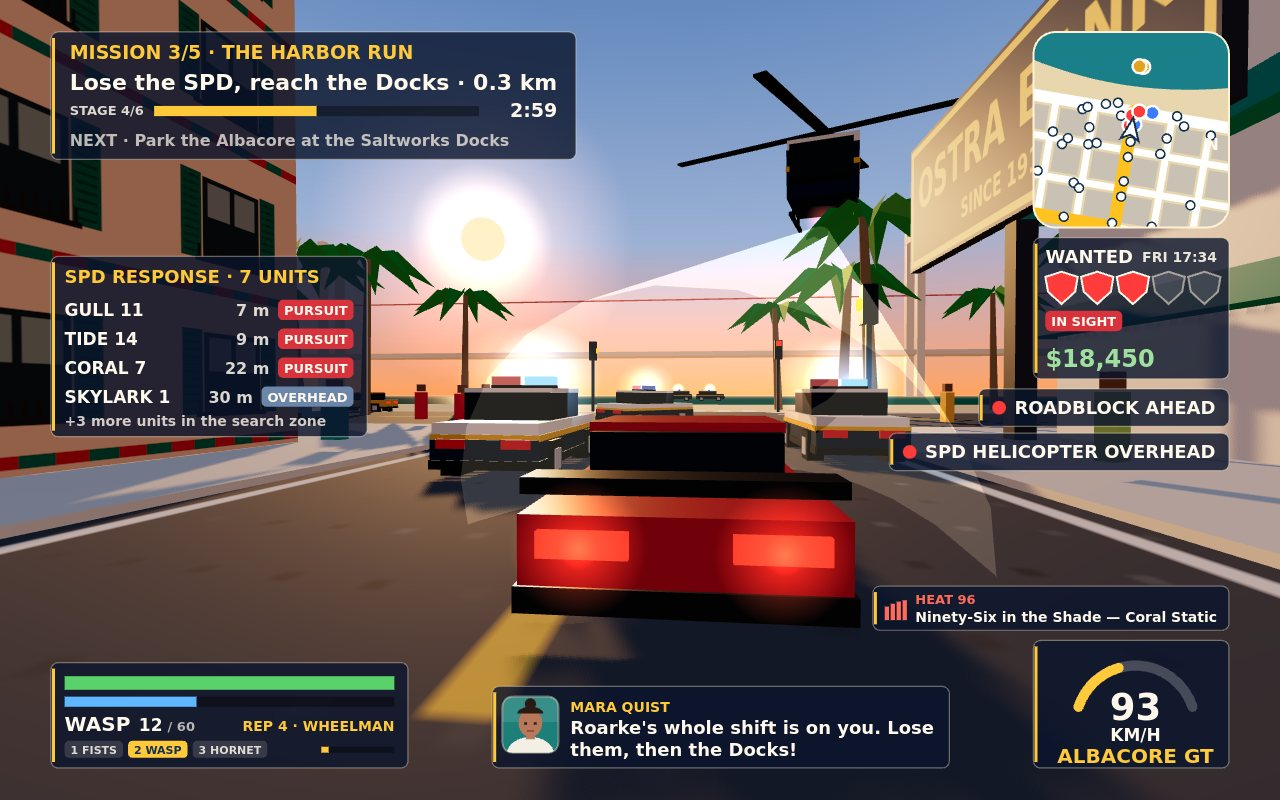
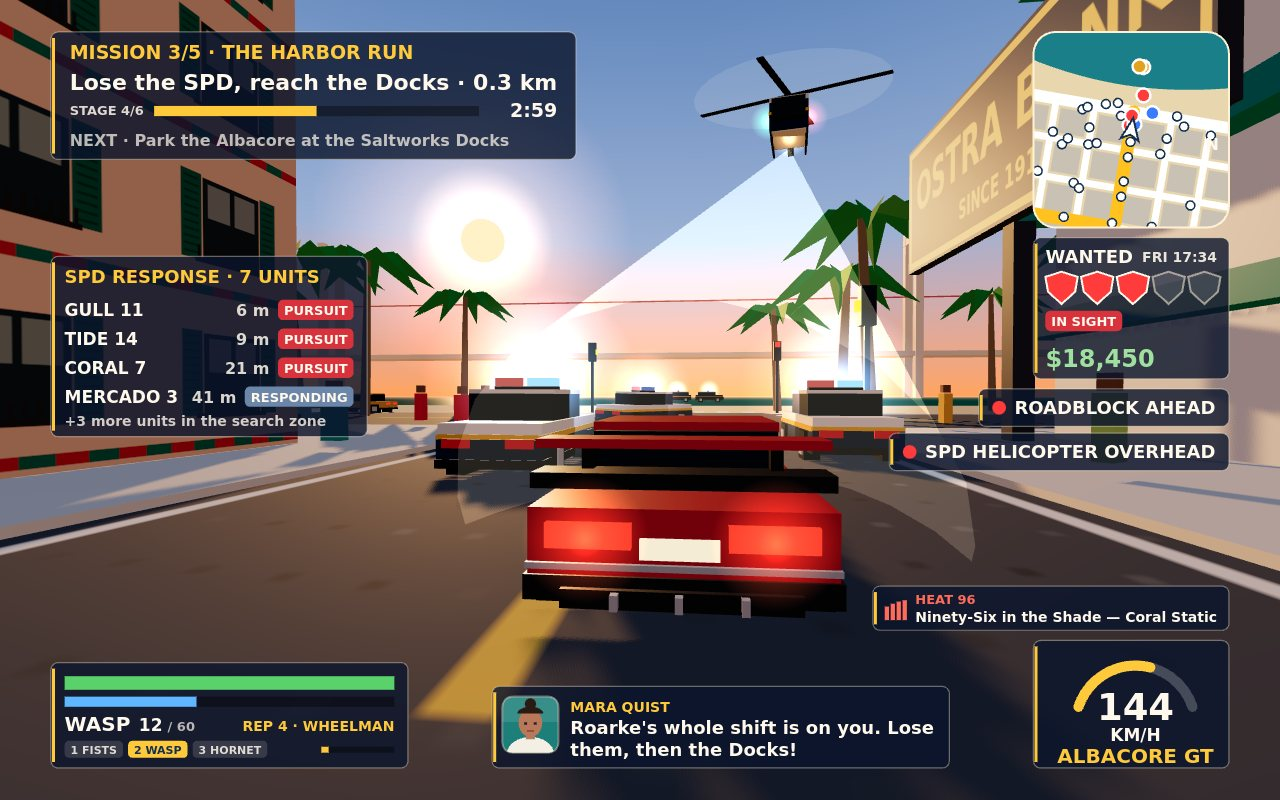
M6 cover detail: SKYLARK 1 half size, higher and right of the sun (30 m up) with a white belly, warm belly lamp, red/green nav lights, tail strobe and a faint rotor disc, searchlight still on the car; police bar halos 5.6 with a hotter core; Albacore rear gets a raised spoiler, bumper line, finned d

diff --git a/game/src/police/police-ai.js b/game/src/police/police-ai.js
@@ -15,7 +15,7 @@ export function dispatchPoliceUnits(game, makeCar) {
     car.ai = 'spd';
     return { ...r, index, car, model, active: false, state: 'IDLE', path: [], repathIn: 0, stuckFor: 0, reverseFor: 0, awayFor: 0, dist: 1e9, bumpCooldown: 0 };
   });
-  const glow = buildBarGlow(units.length + 1);
+  const glow = buildBarGlow(units.length + 2);
   game.scene.add(glow);
   const heli = buildHelicopter();
   game.scene.add(heli.group, heli.cone, heli.spot);
@@ -298,12 +298,20 @@ export function dispatchPoliceUnits(game, makeCar) {
         col.setXYZ(j, k === 0 ? (on ? 1 : 0.25) : 0.1, k === 0 ? 0.12 : (on ? 0.4 : 0.1), k === 0 ? 0.1 : (on ? 1 : 0.25));
       }
     });
-    // The helicopter's belly beacons use the last two sprites.
+    // SKYLARK 1 uses the last four sprites: the warm searchlight lamp under the belly, a red nav
+    // light on its left side, a green one on its right, and a white strobe on the tail fin.
     const j = units.length * 2, ph = Math.floor(game.time * 3) % 2;
-    pos.setXYZ(j, air.active ? air.car.x : 0, air.active ? air.y - 1.1 * HELI_SCALE : -50, air.car.z);
-    pos.setXYZ(j + 1, air.active ? air.car.x : 0, air.active ? air.y + 0.9 * HELI_SCALE : -50, air.car.z);
-    col.setXYZ(j, ph ? 1 : 0.2, 0.1, ph ? 0.1 : 1);
-    col.setXYZ(j + 1, 0.9, 0.85, 0.7);
+    heli.group.updateMatrixWorld();
+    const at = (k, x, y, z) => {
+      if (!air.active) { pos.setXYZ(j + k, 0, -50, 0); return; }
+      const w = heli.group.localToWorld(new THREE.Vector3(x, y, z));
+      pos.setXYZ(j + k, w.x, w.y, w.z);
+    };
+    at(0, 0, -0.8, -0.6); at(1, -1.0, 0.2, -0.4); at(2, 1.0, 0.2, -0.4); at(3, 0, 1.5, 6.1);
+    col.setXYZ(j, 1, 0.9, 0.62);
+    col.setXYZ(j + 1, 1, 0.08, 0.06);
+    col.setXYZ(j + 2, 0.1, 1, 0.25);
+    col.setXYZ(j + 3, ph ? 0.9 : 0.15, ph ? 0.9 : 0.15, ph ? 0.9 : 0.15);
     pos.needsUpdate = true; col.needsUpdate = true;
   }
 
@@ -342,6 +350,7 @@ const DOWN = new THREE.Vector3(0, -1, 0);
 function buildHelicopter() {
   const body = boxesToGeometry([
     { w: 1.9, h: 1.3, d: 3.4, x: 0, y: 0, z: 0, c: NAVY },
+    { w: 1.7, h: 0.06, d: 3.0, x: 0, y: -0.67, z: 0, c: WHITE },
     { w: 1.92, h: 0.5, d: 3.0, x: 0, y: 0.75, z: 0.1, c: WHITE },
     { w: 1.94, h: 0.14, d: 3.42, x: 0, y: 0.15, z: 0, c: GOLD },
     { w: 1.6, h: 0.9, d: 0.9, x: 0, y: 0.15, z: -1.95, c: GLASS },
@@ -359,6 +368,10 @@ function buildHelicopter() {
     { w: 10, h: 0.06, d: 0.32, x: 0, y: 0, z: 0, c: TRIM }, { w: 0.32, h: 0.06, d: 10, x: 0, y: 0, z: 0, c: TRIM },
   ]), POLICE_BODY);
   rotor.position.y = 1.5;
+  // The blur of the spinning blades: a faint pale disc (no depth write), one draw call.
+  const disc = new THREE.Mesh(new THREE.CircleGeometry(5, 32).rotateX(-Math.PI / 2), new THREE.MeshBasicMaterial({ color: 0xdfe6f2, transparent: true, opacity: 0.16, depthWrite: false, side: THREE.DoubleSide }));
+  disc.position.y = 1.52;
+  group.add(disc);
   const tail = new THREE.Mesh(boxesToGeometry([{ w: 0.05, h: 1.8, d: 0.2, x: 0, y: 0, z: 0, c: TRIM }]), POLICE_BODY);
   tail.position.set(0.15, 1.0, 6.1);
   group.add(rotor, tail);
@@ -468,12 +481,12 @@ function buildBarGlow(count) {
   canvas.width = canvas.height = 64;
   const ctx = canvas.getContext('2d');
   const grad = ctx.createRadialGradient(32, 32, 0, 32, 32, 32);
-  grad.addColorStop(0, 'rgba(255,255,255,1)'); grad.addColorStop(0.25, 'rgba(255,255,255,0.55)'); grad.addColorStop(1, 'rgba(255,255,255,0)');
+  grad.addColorStop(0, 'rgba(255,255,255,1)'); grad.addColorStop(0.18, 'rgba(255,255,255,0.8)'); grad.addColorStop(0.45, 'rgba(255,255,255,0.3)'); grad.addColorStop(1, 'rgba(255,255,255,0)');
   ctx.fillStyle = grad; ctx.fillRect(0, 0, 64, 64);
   const geo = new THREE.BufferGeometry();
   geo.setAttribute('position', new THREE.Float32BufferAttribute(new Float32Array(count * 2 * 3).fill(-50), 3));
   geo.setAttribute('color', new THREE.Float32BufferAttribute(new Float32Array(count * 2 * 3), 3));
-  const mat = new THREE.PointsMaterial({ size: 3.4, map: new THREE.CanvasTexture(canvas), vertexColors: true, transparent: true, blending: THREE.AdditiveBlending, depthWrite: false, toneMapped: false });
+  const mat = new THREE.PointsMaterial({ size: 5.6, map: new THREE.CanvasTexture(canvas), vertexColors: true, transparent: true, blending: THREE.AdditiveBlending, depthWrite: false, toneMapped: false });
   const points = new THREE.Points(geo, mat);
   points.frustumCulled = false;
   return points;

diff --git a/game/src/dev/screenshot-scenes.js b/game/src/dev/screenshot-scenes.js
@@ -40,7 +40,7 @@ function writeShotSave(game) {
 // flanking Beacons' offsets (ahead, sideways; + is the car's right), SKYLARK 1's screen point (NDC)
 // and height, and how far right of the low sun the arm looks (rad), so the sun sits up and left of
 // centre over the sea at the end of the street.
-const FRAME = { back: 2.8, up: 1.55, flank: [[6, -3.5], [9, 3.5]], heliX: 0.2, heliY: 0.5, heliUp: 14, sunRight: 0.2 };
+const FRAME = { back: 2.8, up: 1.55, flank: [[6, -3.5], [9, 3.5]], heliX: 0.14, heliY: 0.66, heliUp: 30, sunRight: 0.2, speed: 40 };
 // Where Wren stands for the Mercado fight (south of the van, facing the Clock Arch).
 const STREET = { x: 153.2, z: 75.5 };
 
@@ -100,7 +100,8 @@ export const SCENES = {
     pol.placeHelicopter(car.x - 27.6, car.z - 13.8);
     hold(['KeyW'], 20);
     // Squared up due west at chase speed again (a nudge from the pursuit can slow or turn it).
-    car.heading = Math.PI / 2; car.vx = -26; car.vz = 0; car.speed = 26; car.sync();
+    // FRAME.speed is 40 m/s (144 km/h), well under the Albacore's 62 m/s top speed.
+    car.heading = Math.PI / 2; car.vx = -FRAME.speed; car.vz = 0; car.speed = FRAME.speed; car.sync();
     // Civilian cars inside the flank slots go back to the pool (its own despawn), so the Beacons own them.
     for (const d of game.traffic.drivers) if (d.car && Math.hypot(d.car.x - car.x, d.car.z - car.z) < 14) game.traffic.despawn(d);
     // Two Beacons re-set on the flanks (7-10 m off), so both bars read in full beside the coupe.

diff --git a/game/src/vehicles/car-models.js b/game/src/vehicles/car-models.js
@@ -53,6 +53,7 @@ const LIGHT_MATERIAL = new THREE.MeshBasicMaterial({ vertexColors: true, toneMap
 
 const GLASS = new THREE.Color(0x1d2b3a), TYRE = new THREE.Color(0x1b1c1f), RIM = new THREE.Color(0xc9ccd2);
 const HEAD = new THREE.Color(0xfff6d8), TAIL = new THREE.Color(0xff3326), TRIM = new THREE.Color(0x2a2d33);
+const PLATE = new THREE.Color(0xf4ecd4);
 
 function wheels(w, l, r) {
   const out = [];
@@ -83,6 +84,14 @@ export const CAR_SPECS = {
       { w: 1.56, h: 0.08, d: 1.4, x: 0, y: 1.27, z: 0.3, c },
       { w: 1.9, h: 0.1, d: 0.35, x: 0, y: 1.0, z: 2.1, c: TRIM },
       { w: 2.0, h: 0.16, d: 4.55, x: 0, y: 0.32, z: 0, c: TRIM },
+      // Rear detail: a small raised spoiler on two struts, a bright bumper line, a diffuser with
+      // three fins and a lit plate between them.
+      { w: 0.08, h: 0.16, d: 0.12, x: -0.62, y: 1.13, z: 2.0, c: TRIM }, { w: 0.08, h: 0.16, d: 0.12, x: 0.62, y: 1.13, z: 2.0, c: TRIM },
+      { w: 1.86, h: 0.06, d: 0.36, x: 0, y: 1.23, z: 2.04, c },
+      { w: 1.97, h: 0.04, d: 0.05, x: 0, y: 0.46, z: 2.26, c: RIM },
+      { w: 1.5, h: 0.12, d: 0.1, x: 0, y: 0.27, z: 2.27, c: TRIM },
+      { w: 0.05, h: 0.1, d: 0.14, x: -0.4, y: 0.27, z: 2.31, c: RIM }, { w: 0.05, h: 0.1, d: 0.14, x: 0, y: 0.27, z: 2.31, c: RIM }, { w: 0.05, h: 0.1, d: 0.14, x: 0.4, y: 0.27, z: 2.31, c: RIM },
+      { w: 0.5, h: 0.13, d: 0.04, x: 0, y: 0.58, z: 2.27, c: PLATE, glow: true },
       ...wheels(1.95, 1.45, 0.34),
       ...lightsFor(1.95, 4.5, 0.66),
     ],

diff --git a/NOTES.md b/NOTES.md
@@ -1,5 +1,39 @@
 # PORT SOLARA build notes
 
+## M6 cover detail: done except the road streak (run of 2026-11-19 00:31-00:54 EET)
+- (1) SKYLARK 1 (police/police-ai.js, screenshot-scenes.js `FRAME`): staged at NDC (0.14, 0.66) and
+  30 m up (was 0.2, 0.5, 14 m), so it is about half the size on screen, higher and right of the sun,
+  in open sky between the mission panel and the minimap; its searchlight cone still lands on the
+  coupe. A white belly plate (in the body mesh) and four glow sprites from the shared bar-glow
+  Points (count + 2): a warm lamp under the belly, a red nav light on the left side, a green one on
+  the right, a white tail strobe (placed with the group's own matrix). A faint pale rotor disc (+1
+  draw call while the helicopter is up). It is now 60 m out, so the SPD list's fourth row is
+  MERCADO 3 41 m (real order by distance).
+- (2) Road sun streak: tried (an additive warm ground strip along the sun's bearing, in
+  `light.follow`) and **reverted**: it did not draw in the cover at y 0.06, 0.12 or 0.2 (the frame
+  was the same size every time). Not debugged this run. Lane dashes and speed streaks: not done.
+- (3) Police bar halos: sprite size 5.6 (was 3.4) with a hotter, wider core (gradient 1 / 0.8 /
+  0.3 / 0). Still the one-draw-call additive Points.
+- (4) Albacore rear (vehicles/car-models.js): a small raised spoiler on two trim struts in its own
+  paint, a bright bumper line, a dark diffuser with three bright fins and a lit cream plate (in the
+  lights mesh, so no extra draw call; the tail glow still finds only the two TAIL boxes).
+- (5) Cover speed 40 m/s (`FRAME.speed`): the speed panel reads 144 km/h (was 93), the real speed of
+  the staged state (the Albacore's top speed is 62 m/s).
+- A/B (out/ab/run4-before-1-chase.jpg vs the new cover, out/ab/run4-ab-100.jpg and -50.jpg): the new
+  cover kept (helicopter no longer a black blob, the rear reads as a car, 144 km/h). The coupe is a
+  little smaller in frame at the higher speed (about 25% of the width, was 27%).
+- Self-test (SwiftShader, 1280x800): SELFTEST PASS 23/23. Perf before (last run): HIGH 166 draw
+  calls / 41,655 tris / median 1.4-2.0 ms; LOW 108 / 25,743 / 1.5-2.8 ms. After: HIGH 166 / 41,751 /
+  median 1.7 ms / heap 32 MB; LOW 108 / 25,743 / 1.8 ms (the perf view has no helicopter up, so the
+  rotor disc's +1 call is not in its count). Inside the 4 ms target and the brief's budget.
+- Originality PASS (32 files). main.ts twice: 40 files byte-identical, dossier 1,121,486 bytes.
+- Shots: 1-chase.jpg 174.9 KiB, 2-street.jpg 172.2 KiB (the parked Albacore shows its new rear),
+  3-map.jpg 167.5 KiB, 4-title.jpg 183.7 KiB. Judge sheet rebuilt and read at 50%: the helicopter
+  reads as a lit aircraft in open sky, not a blob.
+- Next: find why the ground streak does not draw (check that `light.follow` runs in the shot and
+  what covers y 0.2 on Rua 5), then the sun reflection, visible lane dashes on Rua 5 and speed
+  streaks driven by real speed; round minimap, drawn weapon icons, a play-time controls strip.
+
 ## M6 cover light and staging: done (run of 2026-11-19 00:12-00:47 EET)
 - (a) Cover re-staged toward the sun (camera spot moved, sun untouched): the Albacore now runs due
   west on Rua 5 (z -30) from x -122 (already inside Palmline Beach, so no district card rises over
